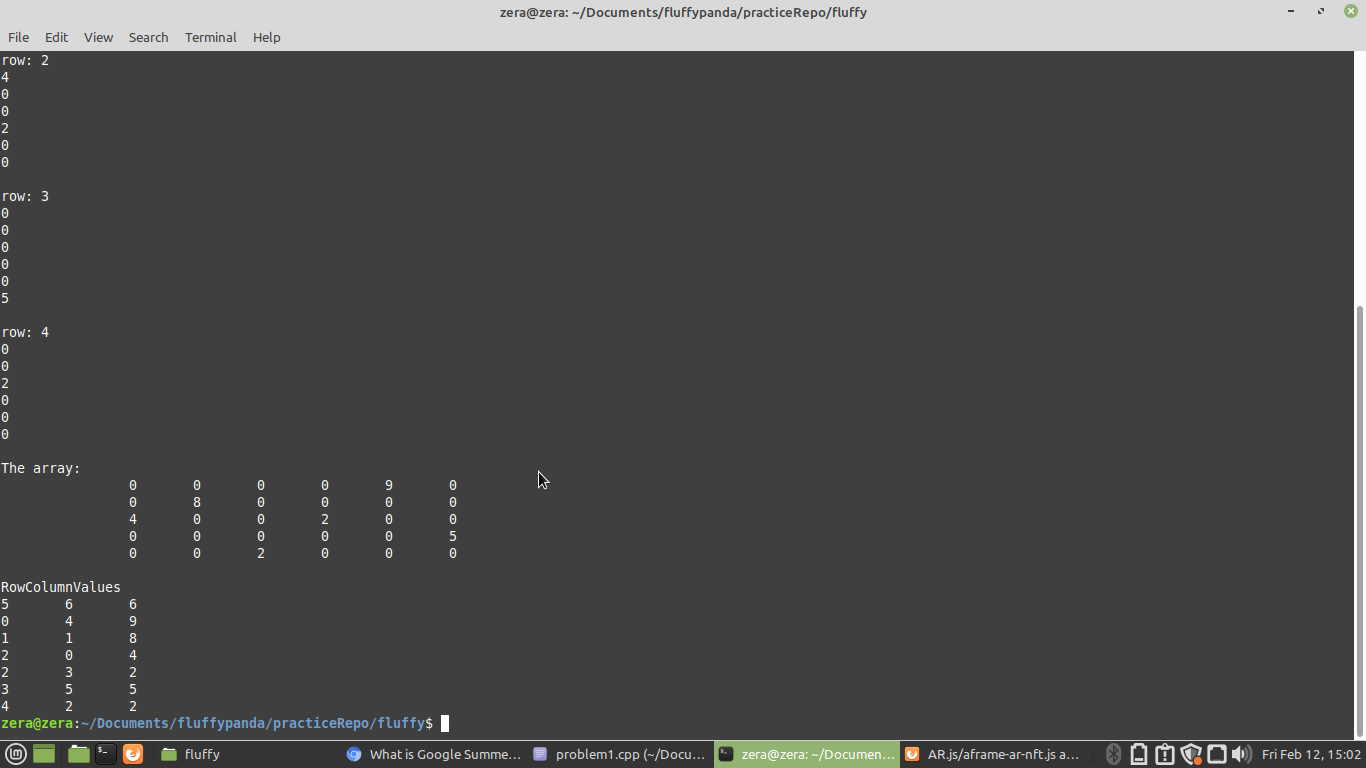
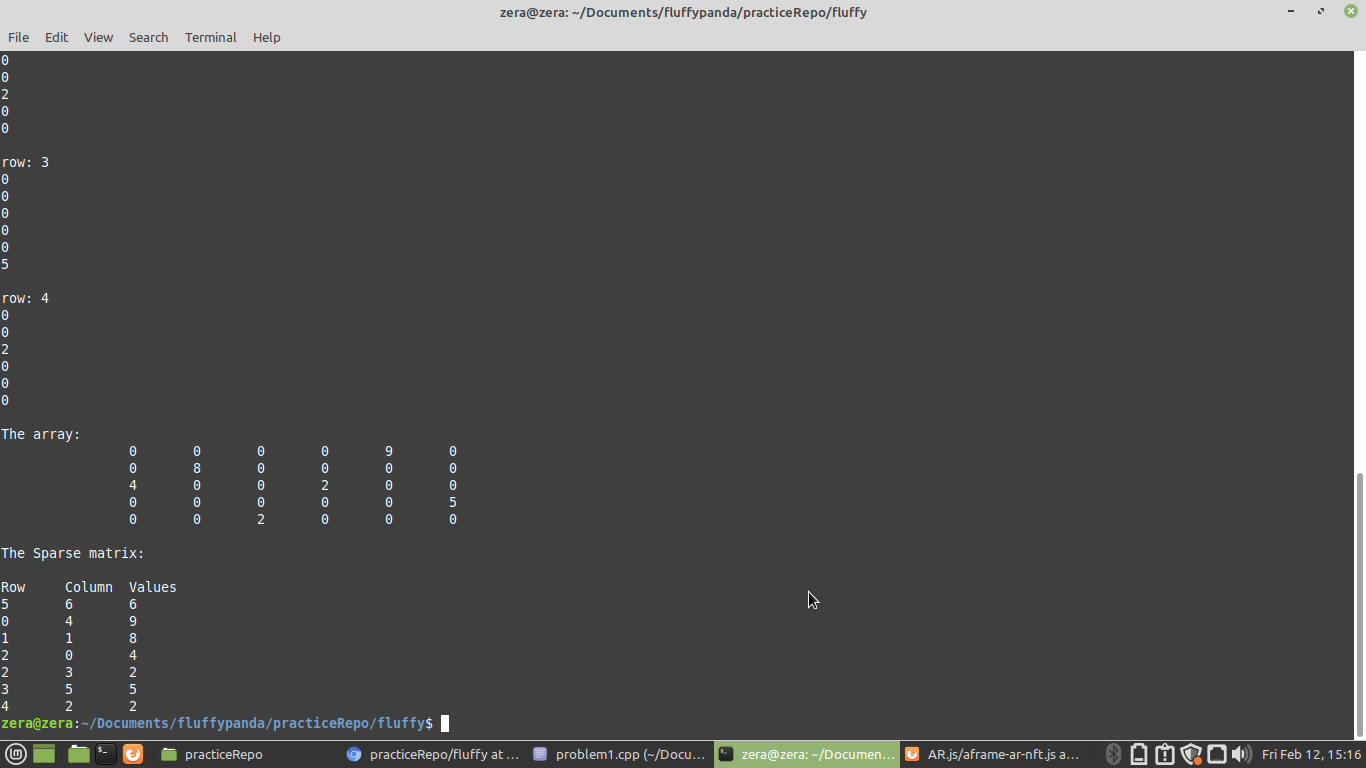
Add files via upload

diff --git a/fluffy/problem1.cpp b/fluffy/problem1.cpp
@@ -52,7 +52,7 @@ void getSparseArr(int row,int col,int p){
 
 }
 void displaySparseArr(int p,int row ,int col){
-    cout<<"\nRow "<<"Column "<<"Values "<<endl;
+    cout<<"\nRow\t"<<"Column\t"<<"Values"<<endl;
     cout<<row<<"\t"<<col<<"\t"<<p<<endl;
     int k=0;
     for(int i =0;i<p;i++){
@@ -74,6 +74,7 @@ int main(){
     displayArr(row,col);
     int posInt = getPosInt(row,col);
     getSparseArr(row,col,posInt);
+    cout<<"\nThe Sparse matrix:\n";
     displaySparseArr(posInt,row,col);
     return 0;
 }
